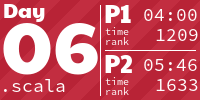
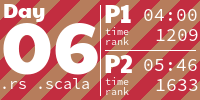
Add solution for 2022 day 6

diff --git a/src/y2022/day6.rs b/src/y2022/day6.rs
@@ -1,0 +1,94 @@
+use std::{
+    collections::HashSet,
+    io::{self, BufRead},
+};
+
+use crate::day::AoCDay;
+
+pub struct Solution {
+    datastream: Vec<char>,
+}
+
+impl Solution {
+    fn find_start(&self, marker_size: usize) -> usize {
+        self.datastream
+            .windows(marker_size)
+            .position(|w| w.iter().collect::<HashSet<&char>>().len() == marker_size)
+            .unwrap()
+            + marker_size
+    }
+}
+
+impl AoCDay for Solution {
+    fn title() -> &'static str {
+        "Tuning Trouble"
+    }
+
+    fn with_input(input: &mut impl BufRead) -> Self {
+        let datastream = io::read_to_string(input)
+            .unwrap()
+            .chars()
+            .collect::<Vec<char>>();
+
+        Self { datastream }
+    }
+
+    fn part1(&self) -> String {
+        self.find_start(4).to_string()
+    }
+
+    fn part2(&self) -> String {
+        self.find_start(14).to_string()
+    }
+}
+
+#[cfg(test)]
+mod tests {
+    use super::*;
+    use crate::input;
+
+    const EX_1: &str = "bvwbjplbgvbhsrlpgdmjqwftvncz";
+    const EX_2: &str = "nppdvjthqldpwncqszvftbrmjlhg";
+    const EX_3: &str = "nznrnfrfntjfmvfwmzdfjlvtqnbhcprsg";
+    const EX_4: &str = "zcfzfwzzqfrljwzlrfnpqdbhtmscgvjw";
+
+    #[test]
+    fn test_part1_example() {
+        let day = Solution::with_input(input!(example: 2022 6));
+        assert_eq!(day.part1(), "7");
+    }
+
+    #[test]
+    fn test_part1_more_examples() {
+        assert_eq!(Solution::with_input(&mut EX_1.as_bytes()).part1(), "5");
+        assert_eq!(Solution::with_input(&mut EX_2.as_bytes()).part1(), "6");
+        assert_eq!(Solution::with_input(&mut EX_3.as_bytes()).part1(), "10");
+        assert_eq!(Solution::with_input(&mut EX_4.as_bytes()).part1(), "11");
+    }
+
+    #[test]
+    fn test_part1_input() {
+        let day = Solution::with_input(input!(input: 2022 6));
+        assert_eq!(day.part1(), "1093");
+    }
+
+    #[test]
+    fn test_part2_example() {
+        let day = Solution::with_input(input!(example: 2022 6));
+        assert_eq!(day.part2(), "19");
+    }
+
+    #[test]
+    fn test_part2_more_examples() {
+        assert_eq!(Solution::with_input(&mut EX_1.as_bytes()).part2(), "23");
+        assert_eq!(Solution::with_input(&mut EX_2.as_bytes()).part2(), "23");
+        assert_eq!(Solution::with_input(&mut EX_3.as_bytes()).part2(), "29");
+        assert_eq!(Solution::with_input(&mut EX_4.as_bytes()).part2(), "26");
+    }
+
+    #[test]
+    fn test_part2_input() {
+        let day = Solution::with_input(input!(input: 2022 6));
+        assert_eq!(day.part2(), "3534");
+    }
+}

diff --git a/benches/benchmarks.rs b/benches/benchmarks.rs
@@ -57,5 +57,5 @@ macro_rules! benchmarks {
 #[rustfmt::skip]
 benchmarks!(
     (Benchmark2021 / y2021: day1),
-    (Benchmark2022 / y2022: day1, day3, day4)
+    (Benchmark2022 / y2022: day1, day3, day4, day6)
 );

diff --git a/src/lib.rs b/src/lib.rs
@@ -75,5 +75,5 @@ macro_rules! aoc_solutions {
 #[rustfmt::skip]
 aoc_solutions!(
     (y2021: day1),
-    (y2022: day1, day3, day4)
+    (y2022: day1, day3, day4, day6)
 );

diff --git a/README.md b/README.md
@@ -20,7 +20,7 @@ Rust solutions for [Advent of Code](http://adventofcode.com/). My scala solution
 <a href="https://github.com/SuperTux88/adventofcode/blob/main/src/main/scala/adventofcode/y2022/Day5.scala">
   <img src="AoCTiles/2022/05.png" width="161px">
 </a>
-<a href="https://github.com/SuperTux88/adventofcode/blob/main/src/main/scala/adventofcode/y2022/Day6.scala">
+<a href="src/y2022/day6.rs">
   <img src="AoCTiles/2022/06.png" width="161px">
 </a>
 <a href="https://github.com/SuperTux88/adventofcode/blob/main/src/main/scala/adventofcode/y2022/Day7.scala">
